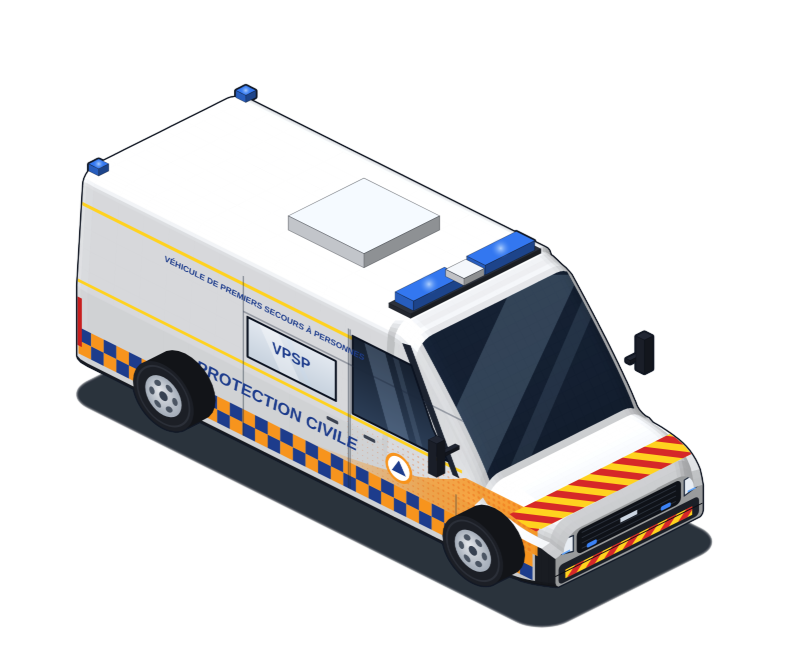
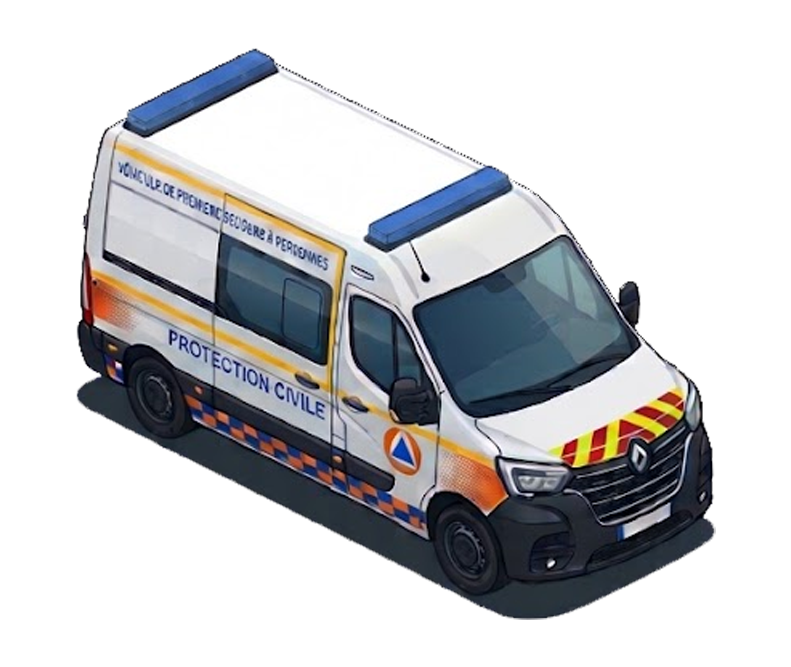
Corrections

diff --git a/js/base_live_scene.js b/js/base_live_scene.js
@@ -66,7 +66,7 @@
   };
 
   const WALL_H = 2.5;        // Hauteur réelle sous plafond (m)
-  const WALL_CUT = 1.1;      // Hauteur de coupe des cloisons et façades avant (m)
+  const WALL_CUT = 0.3;      // Hauteur de coupe des cloisons et façades avant (m)
   const SILL_H = 0.9;        // Allège des fenêtres (m)
   const DOOR_H = 2.04;       // Hauteur de passage des portes (m)
   const CELL = 0.2;          // Taille de cellule de navigation (m)
@@ -3128,7 +3128,7 @@
       }
     }
 
-    // Murs : fond à 2,50 m, cloisons et façades avant coupées à 1,10 m (ou tout à 2,50 m via le bouton Murs)
+    // Murs : fond à 2,50 m, cloisons et façades avant coupées à 30 cm (ou tout à 2,50 m via le bouton Murs)
     drawWall(ctx, p) {
       const iso = this.iso;
       const night = this.isNight;
@@ -3141,6 +3141,11 @@
         ctx.globalAlpha = 0.5;
         drawBox(ctx, iso, p.x0, p.y0, p.x1, p.y1, 0, H, '#7dd3fc', { top: '#bae6fd' });
         ctx.globalAlpha = 1;
+        return;
+      }
+      if (p.windowPane && H <= SILL_H) {
+        // Coupe sous l'allège : simple muret
+        drawBox(ctx, iso, p.x0, p.y0, p.x1, p.y1, 0, H, base, cut);
         return;
       }
       if (p.windowPane) {
@@ -3834,9 +3839,15 @@
         ctx.save();
         ctx.translate(px, py); ctx.rotate(ang);
         if (kind === 'pc') {
-          ctx.fillStyle = '#ffffff'; ctx.beginPath(); ctx.arc(0, 0, 2.15, 0, Math.PI * 2); ctx.fill();
-          ctx.fillStyle = '#f7941d'; ctx.beginPath(); ctx.arc(0, 0, 1.75, 0, Math.PI * 2); ctx.fill();
-          ctx.fillStyle = '#1d3c8c'; ctx.beginPath(); ctx.moveTo(0, -1.25); ctx.lineTo(1.15, 0.85); ctx.lineTo(-1.15, 0.85); ctx.closePath(); ctx.fill();
+          // Logo officiel : disque orange, triangle blanc à côtés bombés, triangle bleu au centre
+          const R = 2.2;
+          ctx.fillStyle = '#f7941d'; ctx.beginPath(); ctx.arc(0, 0, R, 0, Math.PI * 2); ctx.fill();
+          const tA = [0, -R], tB = [R * 0.84, R * 0.55], tC = [-R * 0.84, R * 0.55];
+          const bulge = (p, q) => { const mx = (p[0] + q[0]) / 2, my = (p[1] + q[1]) / 2; const l = Math.hypot(mx, my) || 1; return [mx + mx / l * R * 0.2, my + my / l * R * 0.2]; };
+          ctx.fillStyle = '#ffffff'; ctx.beginPath(); ctx.moveTo(tA[0], tA[1]);
+          [[tA, tB], [tB, tC], [tC, tA]].forEach(([p0, q0]) => { const c0 = bulge(p0, q0); ctx.quadraticCurveTo(c0[0], c0[1], q0[0], q0[1]); });
+          ctx.closePath(); ctx.fill();
+          ctx.fillStyle = '#004a8f'; ctx.beginPath(); ctx.moveTo(0, -R * 0.7); ctx.lineTo(R * 0.6, R * 0.39); ctx.lineTo(-R * 0.6, R * 0.39); ctx.closePath(); ctx.fill();
         } else if (deptPatch) {
           const img = deptPatch.img && deptPatch.img.complete && deptPatch.img.naturalWidth ? deptPatch.img : null;
           if (img) ctx.drawImage(img, -2.2, -2.6, 4.4, 5.2);
@@ -4409,7 +4420,7 @@
       const btn = (id, label, title) => `<button type="button" data-act="${id}" title="${title}" class="plt-btn">${narrow ? label.split(' ')[0] : label}</button>`;
       bar.innerHTML = [
         `<span class="plt-live" style="height:30px;display:inline-flex;align-items:center;gap:6px;padding:0 10px;border-radius:10px;background:#dc2626;color:#fff;font:800 11px 'Plus Jakarta Sans',system-ui,sans-serif;box-shadow:0 2px 6px rgba(220,38,38,.35);"><span style="width:7px;height:7px;border-radius:50%;background:#fff;animation:pulse 1.2s infinite"></span>LIVE</span>`,
-        btn('walls', this.wallsUp ? '🧱 Murs 2,50 m' : '🧱 Murs coupés 1,10 m', 'Basculer : murs à hauteur réelle (2,50 m) / cloisons coupées à 1,10 m'),
+        btn('walls', this.wallsUp ? '🧱 Murs 2,50 m' : '🧱 Murs coupés 30 cm', 'Basculer : murs à hauteur réelle (2,50 m) / cloisons coupées à 30 cm'),
         btn('rotate', '🔄 Pivoter', 'Faire pivoter la vue d’un quart de tour'),
         btn('labels', '🏷 Étiquettes', 'Afficher les noms des pièces et véhicules'),
         this.slot === 'base' ? `<button type="button" data-act="edit" title="Aménager les locaux : placer, déplacer, pivoter le mobilier" class="plt-btn plt-primary">✏ Aménager</button>` : ''
@@ -4418,7 +4429,7 @@
         const b = e.target.closest('button[data-act]');
         if (!b) return;
         const act = b.dataset.act;
-        if (act === 'walls') { this.wallsUp = !this.wallsUp; this.savePref('wallsUp', this.wallsUp); b.textContent = this.wallsUp ? '🧱 Murs 2,50 m' : '🧱 Murs coupés 1,10 m'; }
+        if (act === 'walls') { this.wallsUp = !this.wallsUp; this.savePref('wallsUp', this.wallsUp); b.textContent = this.wallsUp ? '🧱 Murs 2,50 m' : '🧱 Murs coupés 30 cm'; }
         if (act === 'rotate') { this.rotate(); }
         if (act === 'labels') { this.showLabels = !this.showLabels; this.savePref('labels', this.showLabels); }
         if (act === 'edit') { this.editToggle(); }

diff --git a/jeu.html b/jeu.html
@@ -1425,7 +1425,7 @@
   <script src="js/scenarios_manager.js"></script>
   <script src="js/admin.js?v=2.6.5"></script>
   <script src="js/building_engine.js"></script>
-  <script src="js/base_live_scene.js?v=2.5.0"></script>
+  <script src="js/base_live_scene.js?v=2.5.2"></script>
   <script src="js/locaux.js?v=2.10.0"></script>
   <script src="js/logistique.js?v=2.7.9"></script>
   <script src="js/boutiques.js"></script>

diff --git a/sw.js b/sw.js
@@ -10,7 +10,7 @@
  * - En cas de coupure réseau, le client bloque immédiatement l'accès au jeu.
  */
 
-const CACHE_VERSION = 'myprotec-online-v2.9.5';
+const CACHE_VERSION = 'myprotec-online-v2.9.7';
 const STATIC_CACHE = `myprotec-static-${CACHE_VERSION}`;
 
 // Tableau de suivi des minuteurs d'alerte en arrière-plan
